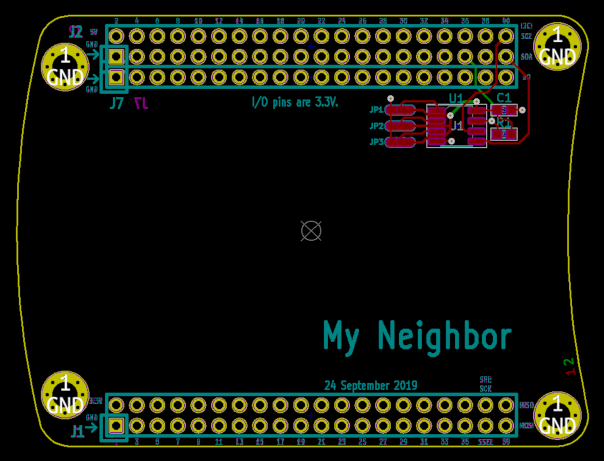
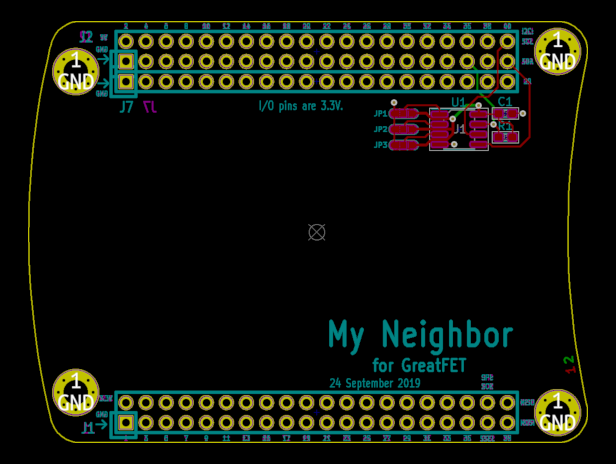
add "for GreatFET" to schematic, silkscreen add template README

Changed region(s): [[0.0, 0.0304, 0.9834, 0.9718], [0.4768, 0.4555, 0.5364, 0.5466]]

diff --git a/greatfet-neighbor-2layer/README.md b/greatfet-neighbor-2layer/README.md
@@ -1,0 +1,2 @@
+# My Neighbor
+## for GreatFET

diff --git a/greatfet-neighbor-4layer/README.md b/greatfet-neighbor-4layer/README.md
@@ -1,0 +1,2 @@
+# My Neighbor
+## for GreatFET
